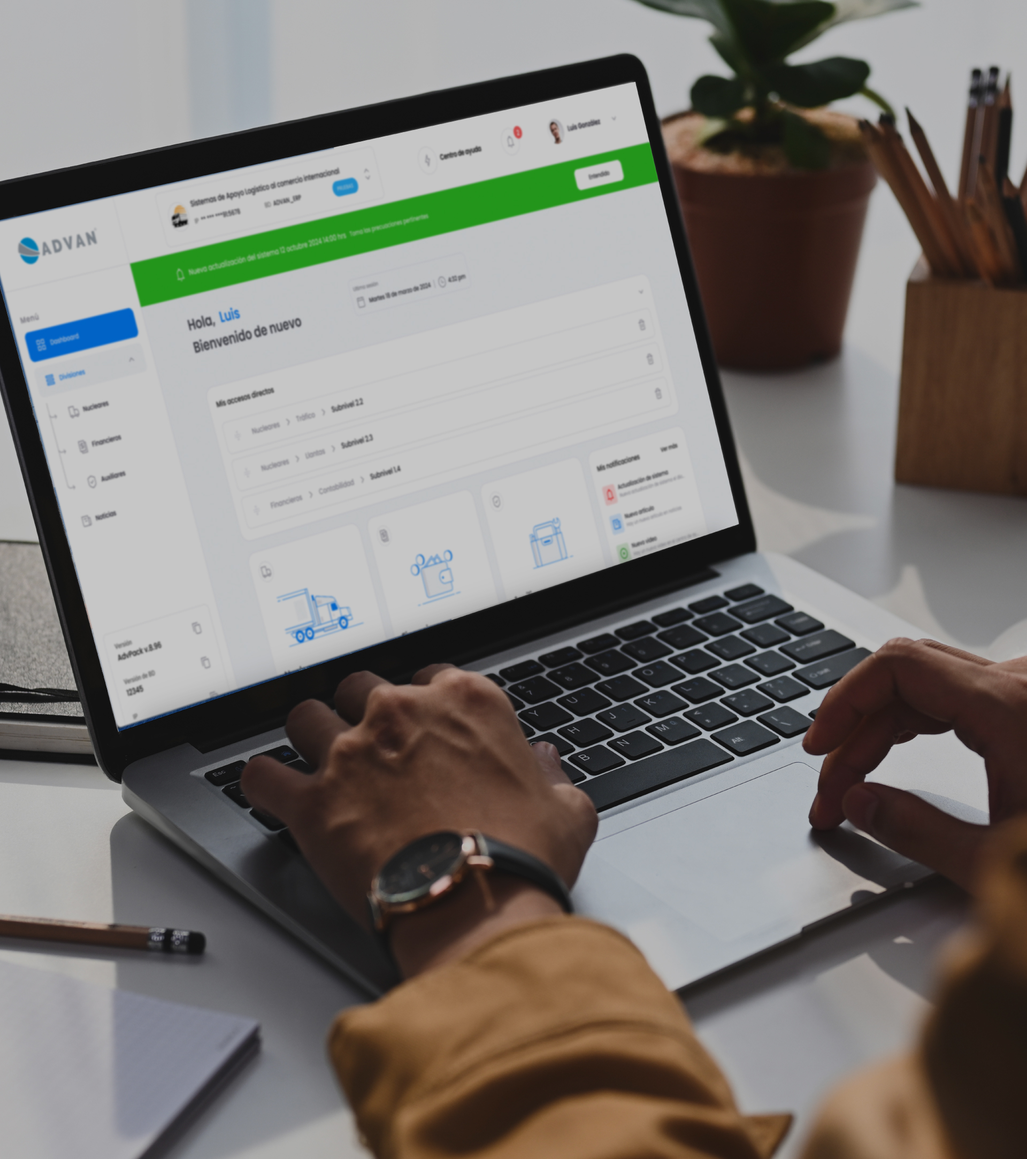
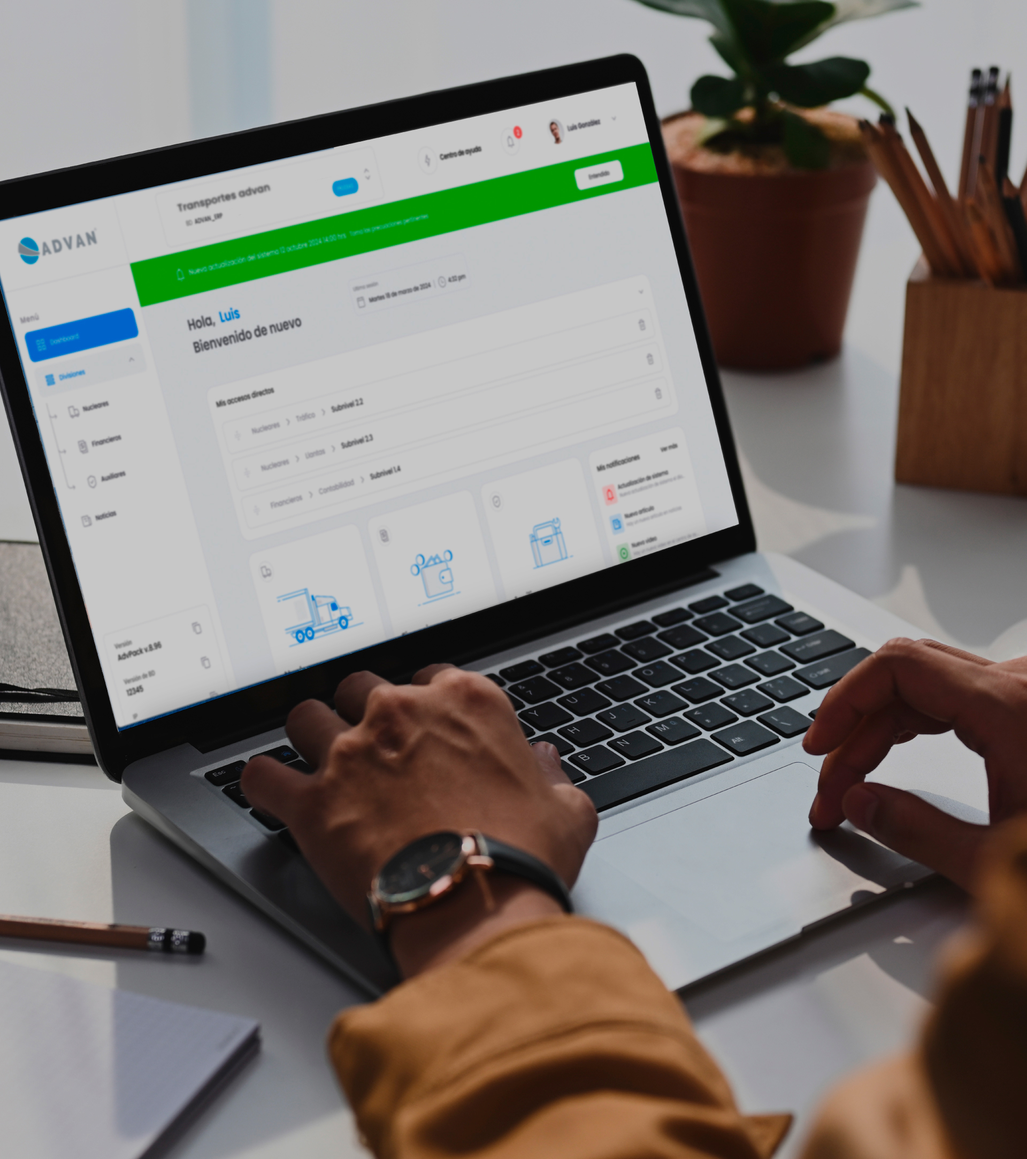
feat: integrate AdvanPAC customer status management with Next.js APIs

Changed region(s): [[0.125, 0.1237, 0.6562, 0.2783], [0.0312, 0.2783, 0.0938, 0.3092], [0.2812, 0.5256, 0.3125, 0.5565]]

diff --git a/app/src/app/advanpac/clientes/page.jsx b/app/src/app/advanpac/clientes/page.jsx
@@ -58,10 +58,11 @@ export default function AdvanPacClientesPage() {
   // Función para obtener estados de AdvanPAC
   const fetchAdvanPacStatuses = async () => {
     try {
-      const response = await fetch('http://10.50.77.181:83/msadvan_pac/api/v1/customer');
+      const response = await fetch('/api/advanpac/customers');
       if (response.ok) {
-        const advanPacCustomers = await response.json();
-        return advanPacCustomers;
+        const result = await response.json();
+        // Si la respuesta es un array directo, lo retornamos; si no, extraemos data
+        return Array.isArray(result) ? result : (result.data || []);
       } else {
         console.error('Error al obtener estados de AdvanPAC:', response.status);
         return [];
@@ -197,7 +198,7 @@ export default function AdvanPacClientesPage() {
     });
   };
 
-  // Función para cambiar el estado del cliente directamente en AdvanPAC
+  // Función para cambiar el estado del cliente usando Next.js API
   const handleStatusChange = async (clienteId, newStatus) => {
     // Marcar este cliente como "actualizando"
     setUpdatingStatus(prev => ({ ...prev, [clienteId]: true }));
@@ -211,15 +212,14 @@ export default function AdvanPacClientesPage() {
 
       // Determinar endpoint según el nuevo estado
       const action = newStatus === 'ACTIVE' ? 'activate' : 'inactivate';
-      const endpoint = `http://10.50.77.181:83/msadvan_pac/api/v1/customer/${action}/${cliente.idCustomerAdvanPac}`;
+      const endpoint = `/api/advanpac/customers/${cliente.idCustomerAdvanPac}/${action}`;
 
-      // Llamar al endpoint de AdvanPAC para activar/inactivar
+      // Llamar al endpoint de Next.js que se conecta con AdvanPAC
       const response = await fetch(endpoint, {
         method: 'POST',
         headers: {
           'Content-Type': 'application/json'
-        },
-        body: '' // Cuerpo vacío como indica el curl
+        }
       });
 
       if (response.ok) {

diff --git a/app/src/utils/advanpacApi.js b/app/src/utils/advanpacApi.js
@@ -1,0 +1,35 @@
+export const API_BASE_URL = process.env.ADVANPAC_API_BASE_URL;
+export const API_HEADERS = {
+  'x-api-key': process.env.API_KEY,
+};
+
+export async function callApiGateway({ endpoint, method = 'GET', params = {}, body = null, headers = {} }) {
+  let url = `${API_BASE_URL}${endpoint}`;
+  if (method === 'GET' && Object.keys(params).length) {
+    const query = new URLSearchParams(params).toString();
+    url += `?${query}`;
+  }
+
+  const allHeaders = { ...API_HEADERS, ...headers };
+  const options = {
+    method,
+    headers: allHeaders,
+  };
+
+  if (method !== 'GET' && body !== null) {
+    if (body === '') {
+      // Para endpoints que requieren body vacío (como activate/inactivate)
+      options.body = '';
+    } else if (body instanceof FormData) {
+      options.body = body;
+      delete options.headers['Content-Type'];
+    } else {
+      options.body = JSON.stringify(body);
+      options.headers['Content-Type'] = 'application/json';
+    }
+  }
+
+  const response = await fetch(url, options);
+  const data = await response.json();
+  return data;
+}

diff --git a/app/src/app/api/advanpac/customers/[id]/inactivate/route.js b/app/src/app/api/advanpac/customers/[id]/inactivate/route.js
@@ -1,0 +1,26 @@
+// app/api/advanpac/customers/[id]/inactivate/route.js
+import { NextResponse } from "next/server";
+import { callApiGateway } from "@/utils/advanpacApi";
+
+export async function POST(req, { params }) {
+  try {
+    const { id } = params;
+    const language = req.headers.get("accept-language")?.split(",")[0] || "es-MX";
+
+    const data = await callApiGateway({
+      endpoint: `/msadvan_pac/api/v1/customer/inactivate/${id}`,
+      method: "POST",
+      body: "", // Body vacío como requiere el endpoint
+      headers: { "Accept-Language": language },
+    });
+
+    return NextResponse.json(data);
+  } catch (error) {
+    console.error('Error inactivating AdvanPAC customer:', error);
+    return NextResponse.json({
+      statusCode: "500",
+      message: "Error interno del servidor",
+      data: null
+    }, { status: 500 });
+  }
+}

diff --git a/app/src/app/api/advanpac/customers/[id]/activate/route.js b/app/src/app/api/advanpac/customers/[id]/activate/route.js
@@ -1,0 +1,26 @@
+// app/api/advanpac/customers/[id]/activate/route.js
+import { NextResponse } from "next/server";
+import { callApiGateway } from "@/utils/advanpacApi";
+
+export async function POST(req, { params }) {
+  try {
+    const { id } = params;
+    const language = req.headers.get("accept-language")?.split(",")[0] || "es-MX";
+
+    const data = await callApiGateway({
+      endpoint: `/msadvan_pac/api/v1/customer/activate/${id}`,
+      method: "POST",
+      body: "", // Body vacío como requiere el endpoint
+      headers: { "Accept-Language": language },
+    });
+
+    return NextResponse.json(data);
+  } catch (error) {
+    console.error('Error activating AdvanPAC customer:', error);
+    return NextResponse.json({
+      statusCode: "500",
+      message: "Error interno del servidor",
+      data: null
+    }, { status: 500 });
+  }
+}

diff --git a/app/src/app/api/advanpac/customers/route.js b/app/src/app/api/advanpac/customers/route.js
@@ -1,0 +1,24 @@
+// app/api/advanpac/customers/route.js
+import { NextResponse } from "next/server";
+import { callApiGateway } from "@/utils/advanpacApi";
+
+export async function GET(req) {
+  try {
+    const language = req.headers.get("accept-language")?.split(",")[0] || "es-MX";
+
+    const data = await callApiGateway({
+      endpoint: "/msadvan_pac/api/v1/customer",
+      method: "GET",
+      headers: { "Accept-Language": language },
+    });
+
+    return NextResponse.json(data);
+  } catch (error) {
+    console.error('Error fetching AdvanPAC customers:', error);
+    return NextResponse.json({
+      statusCode: "500",
+      message: "Error interno del servidor",
+      data: null
+    }, { status: 500 });
+  }
+}
